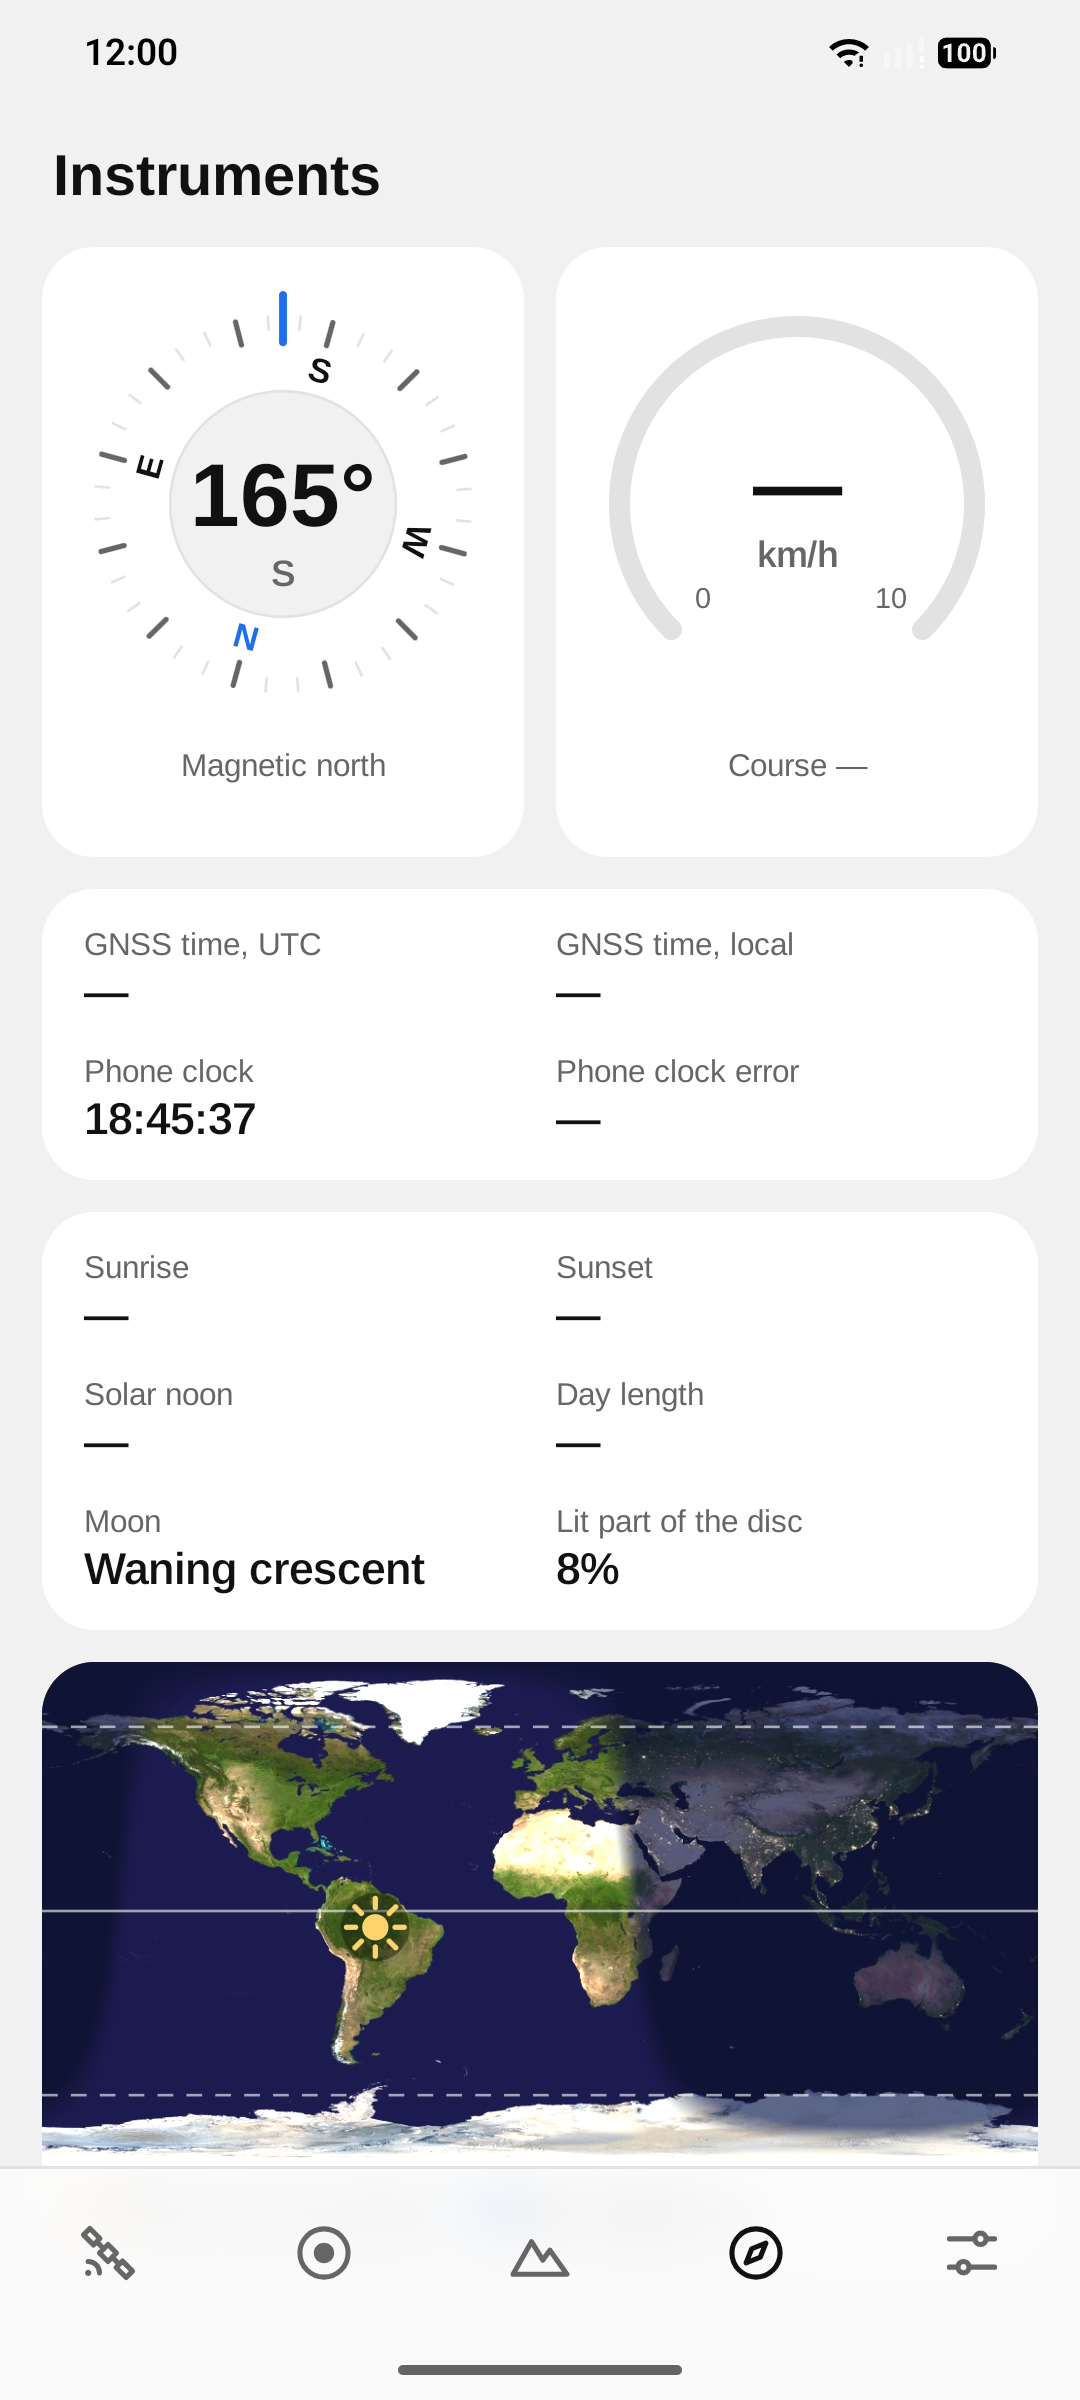
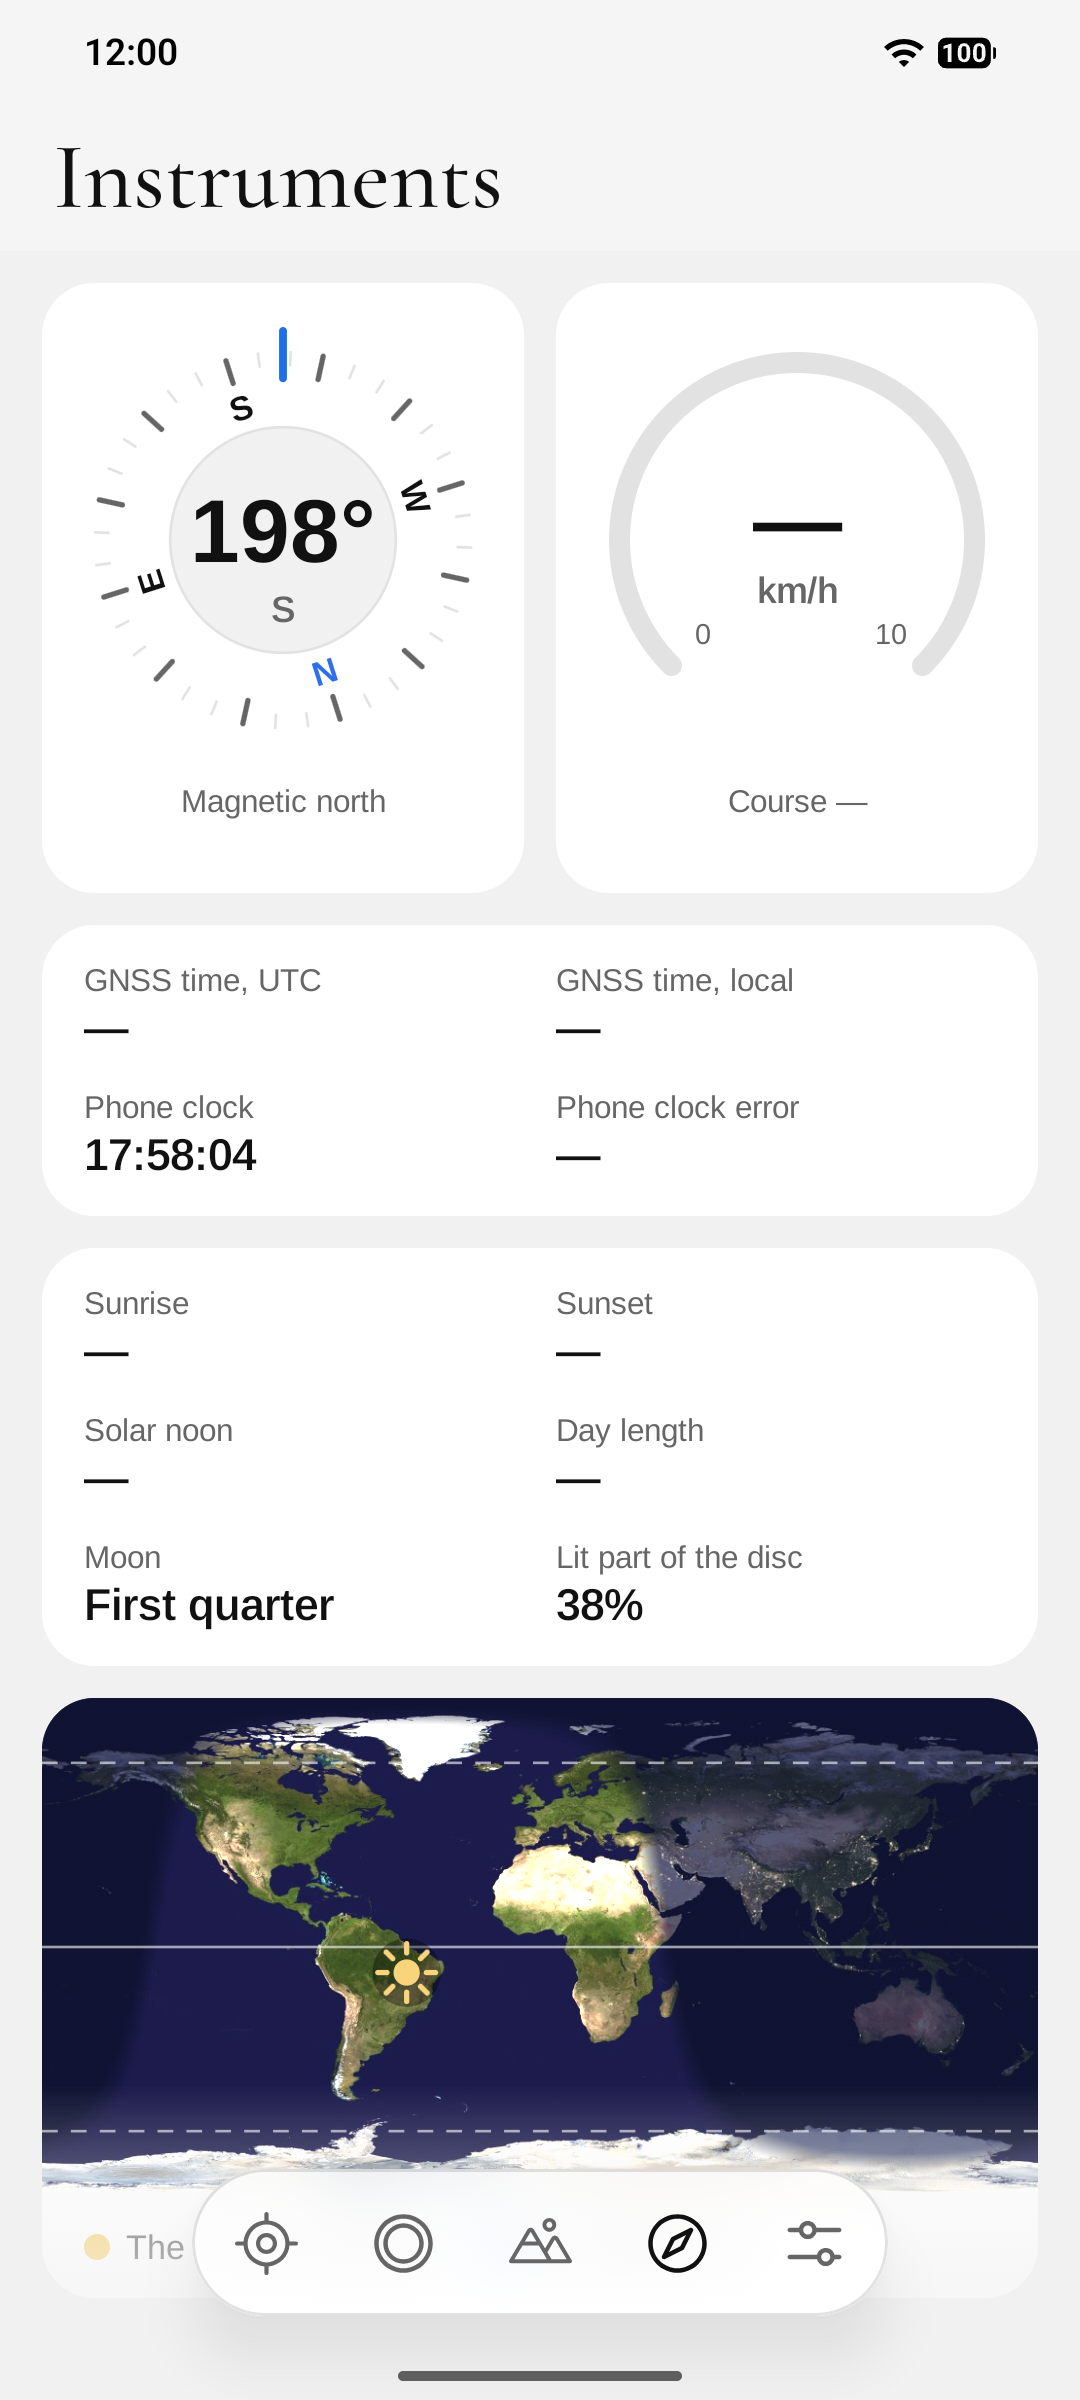
chore: sync to v0.4.4
Source snapshot of the v0.4.4 release.

diff --git a/app/src/main/kotlin/dev/glowcow/altairgnss/recording/Recorder.kt b/app/src/main/kotlin/dev/glowcow/altairgnss/recording/Recorder.kt
@@ -3,13 +3,17 @@ package dev.glowcow.altairgnss.recording
 import android.content.Context
 import android.content.Intent
 import android.os.SystemClock
+import android.widget.Toast
 import dev.glowcow.altairgnss.Haptics
+import dev.glowcow.altairgnss.R
 import dev.glowcow.altairgnss.altimeter.Altimeter
 import dev.glowcow.altairgnss.data.SettingsStore
+import dev.glowcow.altairgnss.data.tracked
 import dev.glowcow.altairgnss.gnss.Fix
 import dev.glowcow.altairgnss.gnss.FusedPosition
 import dev.glowcow.altairgnss.gnss.GnssMonitor
 import kotlinx.coroutines.CoroutineScope
+import kotlinx.coroutines.Dispatchers
 import kotlinx.coroutines.coroutineScope
 import kotlinx.coroutines.delay
 import kotlinx.coroutines.flow.MutableStateFlow
@@ -21,6 +25,7 @@ import kotlinx.coroutines.flow.first
 import kotlinx.coroutines.flow.map
 import kotlinx.coroutines.flow.stateIn
 import kotlinx.coroutines.launch
+import kotlinx.coroutines.withContext
 
 /** The running recording as it stands; heights are metres from its zero. */
 data class LiveProfile(
@@ -60,6 +65,8 @@ class Recorder(
     /** The recording that runs now. */
     val active: StateFlow<Track?> = dao.observeActive().stateIn(scope, SharingStarted.Eagerly, null)
 
+    private val barometer = altimeter.state.value.hasBarometer
+
     private val liveState = MutableStateFlow<LiveProfile?>(null)
     val live: StateFlow<LiveProfile?> = liveState
 
@@ -68,16 +75,17 @@ class Recorder(
         scope.launch { dao.active()?.let { end(it, null) } }
     }
 
-    // A recording that never got an altitude holds nothing worth keeping.
-    private suspend fun end(track: Track, at: Long?) {
+    // A recording that never got an altitude holds nothing worth keeping; false when it was dropped.
+    private suspend fun end(track: Track, at: Long?): Boolean {
         val last = dao.lastPointTime(track.id)
         if (last == null) dao.delete(track.id) else dao.close(track.id, at ?: last)
+        return last != null
     }
 
     fun start(activity: Activity) {
         scope.launch {
             if (dao.active() != null) return@launch
-            dao.insert(Track(startedAt = System.currentTimeMillis(), activity = activity.key))
+            dao.insert(Track(startedAt = System.currentTimeMillis(), activity = activity.key, geotag = settings.settings.first().networkPosition))
             context.startForegroundService(Intent(context, RecordingService::class.java))
         }
     }
@@ -85,13 +93,15 @@ class Recorder(
     fun stop() {
         scope.launch {
             val track = dao.active()
-            track?.let { end(it, System.currentTimeMillis()) }
+            val kept = track?.let { end(it, System.currentTimeMillis()) }
             context.stopService(Intent(context, RecordingService::class.java))
             liveState.value = null
             if (track != null) {
                 Haptics.stopped(context)
                 places.fill()
             }
+            // A recording that vanished from the list says why.
+            if (kept == false) withContext(Dispatchers.Main) { Toast.makeText(context, R.string.recording_empty, Toast.LENGTH_LONG).show() }
         }
     }
 
@@ -138,7 +148,7 @@ class Recorder(
             val sensors = launch { altimeter.state.collect {} }
             var placing = true
             val receiver = launch {
-                settings.settings.map { it.recordPosition }.distinctUntilChanged().collectLatest { wanted ->
+                settings.settings.map { it.tracked(barometer) }.distinctUntilChanged().collectLatest { wanted ->
                     placing = wanted
                     if (wanted) gnss.state.collect {}
                 }
@@ -147,7 +157,7 @@ class Recorder(
             // sure enough; the receiver alone does otherwise, and wherever the blend has nothing.
             var blended: Fix? = null
             val network = launch {
-                settings.settings.map { it.recordPosition && it.networkPosition }.distinctUntilChanged().collectLatest { wanted ->
+                settings.settings.map { it.tracked(barometer) && it.networkPosition }.distinctUntilChanged().collectLatest { wanted ->
                     blended = null
                     if (wanted) fused.fixes.collect { blended = it }
                 }

diff --git a/app/src/main/kotlin/dev/glowcow/altairgnss/ui/recording/RecordScreen.kt b/app/src/main/kotlin/dev/glowcow/altairgnss/ui/recording/RecordScreen.kt
@@ -62,6 +62,7 @@ import dev.glowcow.altairgnss.R
 import dev.glowcow.altairgnss.altimeter.AltitudeSource
 import dev.glowcow.altairgnss.container
 import dev.glowcow.altairgnss.data.AppSettings
+import dev.glowcow.altairgnss.data.tracked
 import dev.glowcow.altairgnss.recording.Activity
 import dev.glowcow.altairgnss.recording.Recorder
 import dev.glowcow.altairgnss.recording.Track
@@ -157,7 +158,7 @@ private fun RecordContent(top: Dp, bottom: Dp, onOpen: (Long) -> Unit, onYear: (
     var picked by rememberSaveable { mutableStateOf(emptySet<Activity>()) }
     val recording = active != null
     val settings by remember { container.settings.settings }.collectAsStateWithLifecycle(AppSettings())
-    // Places are named only while network positioning is on, and as soon as it is turned on.
+    // A recording begun with network positioning on is named while the switch is on; one the geocoder missed is tried again.
     LaunchedEffect(settings.networkPosition) { container.places.fill() }
     var choosingSource by rememberSaveable { mutableStateOf(false) }
     val sourceName = stringResource(SOURCES.first { it.first == altimeter.source }.second)
@@ -229,12 +230,17 @@ private fun RecordContent(top: Dp, bottom: Dp, onOpen: (Long) -> Unit, onYear: (
                 onClick = if (altimeter.hasBarometer) ({ choosingSource = true }) else null,
             )
             GroupDivider()
-            SwitchRow(
-                stringResource(R.string.recording_position),
-                stringResource(R.string.recording_position_hint),
-                settings.recordPosition,
-            ) { on -> container.scope.launch { container.settings.setRecordPosition(on) } }
-            if (settings.recordPosition) {
+            // Without a barometer the altitude is the receiver's, so the track cannot be left out.
+            if (altimeter.hasBarometer) {
+                SwitchRow(
+                    stringResource(R.string.recording_position),
+                    stringResource(R.string.recording_position_hint),
+                    settings.recordPosition,
+                ) { on -> container.scope.launch { container.settings.setRecordPosition(on) } }
+            } else {
+                GroupRow(stringResource(R.string.recording_position), subtitle = stringResource(R.string.recording_position_locked))
+            }
+            if (settings.tracked(altimeter.hasBarometer)) {
                 GroupDivider()
                 SwitchRow(
                     stringResource(R.string.recording_network),
@@ -417,7 +423,7 @@ private fun TrackRow(track: Track, onClick: () -> Unit) {
             Text(
                 if (ended == null) stringResource(R.string.recording_now)
                 // The length first, so a long place is what gets cut; with no place looked up, the length alone.
-                else listOfNotNull(clock(ended - track.startedAt), track.place?.let { it.ifEmpty { stringResource(R.string.place_none) } }).joinToString(" · "),
+                else listOfNotNull(clock(ended - track.startedAt), track.place?.takeIf { track.geotag }?.let { it.ifEmpty { stringResource(R.string.place_none) } }).joinToString(" · "),
                 color = c.muted,
                 fontSize = 13.sp,
                 maxLines = 1,

diff --git a/app/src/main/kotlin/dev/glowcow/altairgnss/backup/Backup.kt b/app/src/main/kotlin/dev/glowcow/altairgnss/backup/Backup.kt
@@ -44,7 +44,7 @@ class Backup(private val context: Context, private val tracks: TrackDao, private
                         createdAt = System.currentTimeMillis(),
                         app = context.packageManager.getPackageInfo(context.packageName, 0).versionName.orEmpty(),
                         tracks = finished.map { t ->
-                            BackupTrack(t.startedAt, t.endedAt, t.zeroAltitude, tracks.marks(t.id).map { m -> BackupMark(m.timeMs, m.label) }, t.activity)
+                            BackupTrack(t.startedAt, t.endedAt, t.zeroAltitude, tracks.marks(t.id).map { m -> BackupMark(m.timeMs, m.label) }, t.activity, t.place, t.geotag)
                         },
                         settings = BackupSettings(
                             s.theme.name, s.palette.name, s.coordinates.name, s.length.name, s.speed.name,
@@ -109,7 +109,7 @@ class Backup(private val context: Context, private val tracks: TrackDao, private
             if (!overwrite || known.endedAt == null) return false
             tracks.delete(known.id)
         }
-        val id = tracks.insert(Track(startedAt = track.startedAt, endedAt = ended, zeroAltitude = track.zeroAltitude, activity = track.activity))
+        val id = tracks.insert(Track(startedAt = track.startedAt, endedAt = ended, zeroAltitude = track.zeroAltitude, activity = track.activity, place = track.place, geotag = track.geotag))
         val points = BackupArchive.points(file, id)
         if (points.isEmpty()) {
             tracks.delete(id)

diff --git a/app/src/main/kotlin/dev/glowcow/altairgnss/recording/AltairDatabase.kt b/app/src/main/kotlin/dev/glowcow/altairgnss/recording/AltairDatabase.kt
@@ -8,12 +8,14 @@ import androidx.room3.DeleteTable
 import androidx.room3.Room
 import androidx.room3.RoomDatabase
 import androidx.room3.migration.AutoMigrationSpec
+import androidx.sqlite.SQLiteConnection
 import androidx.sqlite.driver.bundled.BundledSQLiteDriver
+import androidx.sqlite.execSQL
 import kotlinx.coroutines.Dispatchers
 
 @Database(
     entities = [Track::class, Point::class, Mark::class],
-    version = 6,
+    version = 7,
     exportSchema = true,
     autoMigrations = [
         AutoMigration(from = 1, to = 2),
@@ -21,6 +23,7 @@ import kotlinx.coroutines.Dispatchers
         AutoMigration(from = 3, to = 4),
         AutoMigration(from = 4, to = 5),
         AutoMigration(from = 5, to = 6),
+        AutoMigration(from = 6, to = 7, spec = AltairDatabase.Geotag::class),
     ],
 )
 abstract class AltairDatabase : RoomDatabase() {
@@ -30,6 +33,11 @@ abstract class AltairDatabase : RoomDatabase() {
     @DeleteTable(tableName = "marks")
     @DeleteColumn(tableName = "tracks", columnName = "endAltitude")
     class DropUnused : AutoMigrationSpec
+
+    /** What the switch was when an older recording began is not known: one that already has a place keeps it. */
+    class Geotag : AutoMigrationSpec {
+        override suspend fun onPostMigrate(connection: SQLiteConnection) = connection.execSQL("UPDATE tracks SET geotag = 1 WHERE place IS NOT NULL")
+    }
 
     companion object {
         fun create(context: Context): AltairDatabase =

diff --git a/app/src/test/kotlin/dev/glowcow/altairgnss/backup/BackupTest.kt b/app/src/test/kotlin/dev/glowcow/altairgnss/backup/BackupTest.kt
@@ -33,7 +33,7 @@ class BackupTest {
     private fun archive(): ByteArray {
         val out = ByteArrayOutputStream()
         BackupArchive.Writer(out).apply {
-            manifest(BackupManifest(createdAt = 99, app = "0.2.1", tracks = listOf(BackupTrack(1000, 5000, 412.5), BackupTrack(9000, 9500)), settings = settings))
+            manifest(BackupManifest(createdAt = 99, app = "0.2.1", tracks = listOf(BackupTrack(1000, 5000, 412.5, place = "Fieschertal", geotag = true), BackupTrack(9000, 9500)), settings = settings))
             track(
                 1000,
                 listOf(
@@ -54,6 +54,7 @@ class BackupTest {
 
         assertEquals(listOf(1000L, 9000L), manifest.tracks.map { it.startedAt })
         assertEquals(412.5, manifest.tracks[0].zeroAltitude!!, 0.0)
+        assertEquals(listOf("Fieschertal" to true, null to false), manifest.tracks.map { it.place to it.geotag })
         assertEquals(settings, manifest.settings)
         assertEquals("0.2.1", manifest.app)
 

diff --git a/app/src/main/kotlin/dev/glowcow/altairgnss/recording/Places.kt b/app/src/main/kotlin/dev/glowcow/altairgnss/recording/Places.kt
@@ -13,8 +13,8 @@ import kotlinx.coroutines.sync.withLock
 import kotlin.coroutines.resume
 
 /**
- * Names where each finished recording began, once, through the platform's geocoder — only while
- * network positioning is on: the geocoder sends the place to the phone's location service.
+ * Names where each finished recording begun with network positioning on began, once, through the platform's
+ * geocoder — only while the switch is on: the geocoder sends the place to the phone's location service.
  */
 class Places(private val context: Context, private val scope: CoroutineScope, private val dao: TrackDao, private val settings: SettingsStore) {
     private val lock = Mutex()

diff --git a/app/src/main/kotlin/dev/glowcow/altairgnss/recording/Track.kt b/app/src/main/kotlin/dev/glowcow/altairgnss/recording/Track.kt
@@ -1,5 +1,6 @@
 package dev.glowcow.altairgnss.recording
 
+import androidx.room3.ColumnInfo
 import androidx.room3.Entity
 import androidx.room3.ForeignKey
 import androidx.room3.Index
@@ -18,6 +19,8 @@ data class Track(
     val activity: String? = null,
     /** Where it began, named by the geocoder; null until looked up, empty where nothing could name it. */
     val place: String? = null,
+    /** Network positioning was on when it began, so its place is named and shown. */
+    @ColumnInfo(defaultValue = "0") val geotag: Boolean = false,
 )
 
 @Entity(

diff --git a/app/src/main/kotlin/dev/glowcow/altairgnss/recording/TrackDao.kt b/app/src/main/kotlin/dev/glowcow/altairgnss/recording/TrackDao.kt
@@ -40,7 +40,7 @@ interface TrackDao {
     @Query("UPDATE tracks SET activity = :activity WHERE id = :id")
     suspend fun setActivity(id: Long, activity: String)
 
-    @Query("SELECT * FROM tracks WHERE place IS NULL AND endedAt IS NOT NULL")
+    @Query("SELECT * FROM tracks WHERE place IS NULL AND geotag AND endedAt IS NOT NULL")
     suspend fun unplaced(): List<Track>
 
     @Query("UPDATE tracks SET place = :place WHERE id = :id")

diff --git a/app/src/main/kotlin/dev/glowcow/altairgnss/data/Settings.kt b/app/src/main/kotlin/dev/glowcow/altairgnss/data/Settings.kt
@@ -64,6 +64,9 @@ data class AltimeterPrefs(
     val calibration: Calibration? = null,
 )
 
+/** A recording keeps its track while asked to, and always without a barometer: the altitude then comes from the receiver. */
+fun AppSettings.tracked(barometer: Boolean) = recordPosition || !barometer
+
 private val Context.dataStore by preferencesDataStore("settings")
 
 class SettingsStore(private val context: Context) {

diff --git a/app/src/main/kotlin/dev/glowcow/altairgnss/backup/BackupArchive.kt b/app/src/main/kotlin/dev/glowcow/altairgnss/backup/BackupArchive.kt
@@ -42,6 +42,8 @@ data class BackupTrack(
     val zeroAltitude: Double? = null,
     val marks: List<BackupMark> = emptyList(),
     val activity: String? = null,
+    val place: String? = null,
+    val geotag: Boolean = false,
 )
 
 /** A marked moment of a recording. */

diff --git a/README.md b/README.md
@@ -184,5 +184,7 @@ Arimo and Cormorant Garamond are bundled under the SIL Open Font License
 [`licenses/Phosphor-MIT.txt`](licenses/Phosphor-MIT.txt).
 
 The world map uses NASA's Blue Marble and Black Marble images (NASA Earth
-Observatory), which are in the public domain. Airport reports come from
+Observatory), which are in the public domain. The map under a track is
+OpenStreetMap — © OpenStreetMap contributors, data under the Open Database
+License. Airport reports come from
 the Aviation Weather Center's public data API.
